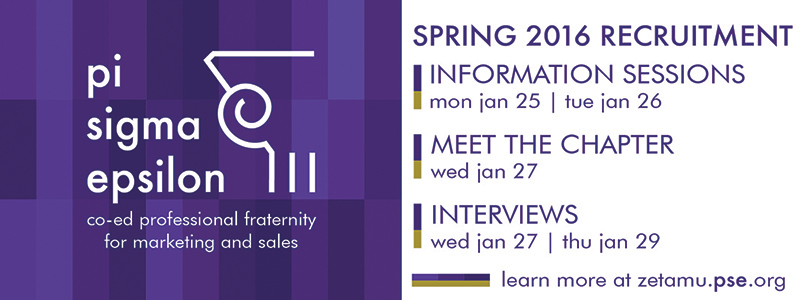
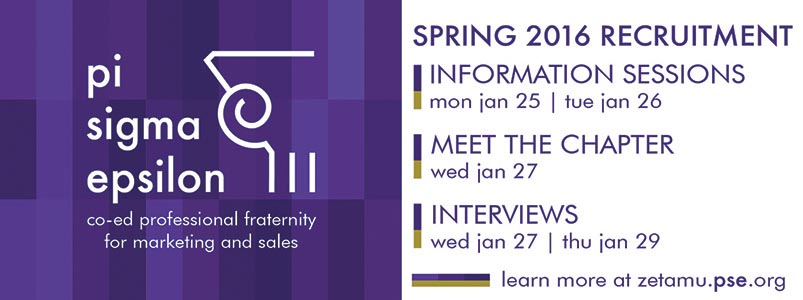
optimize photos & add nomad

diff --git a/index.html b/index.html
@@ -15,10 +15,10 @@ section: index
         </div>
       </div>
       <div class="cp-color-block cp-color-block-responsive">
-        <div class="cp-color" style="background-color: #647C4A;"></div>
-        <div class="cp-color" style="background-color: #DAC833;"></div>
-        <div class="cp-color" style="background-color: #515151;"></div>
-        <div class="cp-color" style="background-color: #7A9DB2;"></div>
+        <div class="cp-color" style="background-color: #63774C;"></div>
+        <div class="cp-color" style="background-color: #567FAE;"></div>
+        <div class="cp-color" style="background-color: #ED9C37;"></div>
+        <div class="cp-color" style="background-color: #904040;"></div>
       </div>
       <div class="cp-cover-nav cp-vertical-center">
         <div class="cp-vc-normalize">

diff --git a/assets/css/portfolio.scss b/assets/css/portfolio.scss
@@ -76,6 +76,7 @@ h2 {
 .cp-project-images {
   h3 {
     margin-bottom: 10px;
+    margin-top: 10px;
   }
 
   .col-xs-6 {
@@ -120,6 +121,10 @@ h2 {
     @media #{$xs-screen-only} {
       display: none;
     }
+  }
+
+  h3 {
+    margin-top: 10px;
   }
 }
 

diff --git a/_projects/a_move_for_life.md b/_projects/a_move_for_life.md
@@ -10,28 +10,28 @@ blurb: Web devloper internship at an LA-based nonprofit that helps organize char
 background: true
 
 images:
-  - url: /assets/images/projects/a_move_for_life/landing.png
+  - url: /assets/images/projects/a_move_for_life/landing.jpg
     id: landing
     title: Landing page - desktop
     offsety: 0
     offsetx: 50%
     classes: "cp-horizontal"
     modal_classes: "modal-md"
-  - url: /assets/images/projects/a_move_for_life/landing_mobile.png
+  - url: /assets/images/projects/a_move_for_life/landing_mobile.jpg
     id: landing-mobile
     title: Landing page - mobile
     offsety: 23%
     offsetx: 0
     classes: "cp-vertical"
     modal_classes: "modal-sm"
-  - url: /assets/images/projects/a_move_for_life/events.png
+  - url: /assets/images/projects/a_move_for_life/events.jpg
     id: events
     title: Events page - desktop
     offsety: 0
     offsetx: 50%
     classes: "cp-horizontal"
     modal_classes: "modal-md"
-  - url: /assets/images/projects/a_move_for_life/events_mobile.png
+  - url: /assets/images/projects/a_move_for_life/events_mobile.jpg
     id: events-mobile
     title: Events page - mobile
     offsety: 23%

diff --git a/_projects/nomad_magezine.md b/_projects/nomad_magezine.md
@@ -1,0 +1,26 @@
+---
+layout: project
+title: Camden Phalen | Nomad Magezine
+section: portfolio
+
+project_name: Nomad Magezine
+project_categories: Design, Code
+year: 2016
+blurb: Design and devlopment of a Wordpress theme for University of Edinburgh's student-run travel and culture magezine.
+background: true
+color1: "#c9b959"
+color2: "#2d795d"
+color3: "#01305E"
+color4: "#B88D68"
+
+links:
+  - display: Current Nomad site
+    href: http://nomadmagazine.wixsite.com/blog
+    color1: "#2d795d"
+    color2: "#01305E"
+  - display: Github repository
+    href: https://github.com/camden11/nomad
+    color1: "#979797"
+    color2: "#92DC8D"
+---
+Nomad is a student run magezine at the University of Edinburgh that publishes articles pertaining to travel, culture, and politics, as well as works of creative writing. I got involved with the organization through the University's Design Society, and have been working to design and develop them a new website to replace their current WIX site. This project is currently a work in progress, and should be finished some time in December 2016.

diff --git a/_projects/trash2treasure.md b/_projects/trash2treasure.md
@@ -14,7 +14,7 @@ color3: "#AB2D3D"
 color4: "#B88D68"
 
 images:
-  - url: /assets/images/projects/trash2treasure/landing.png
+  - url: /assets/images/projects/trash2treasure/landing.jpg
     id: landing
     title: Landing page
     offsety: 50%
